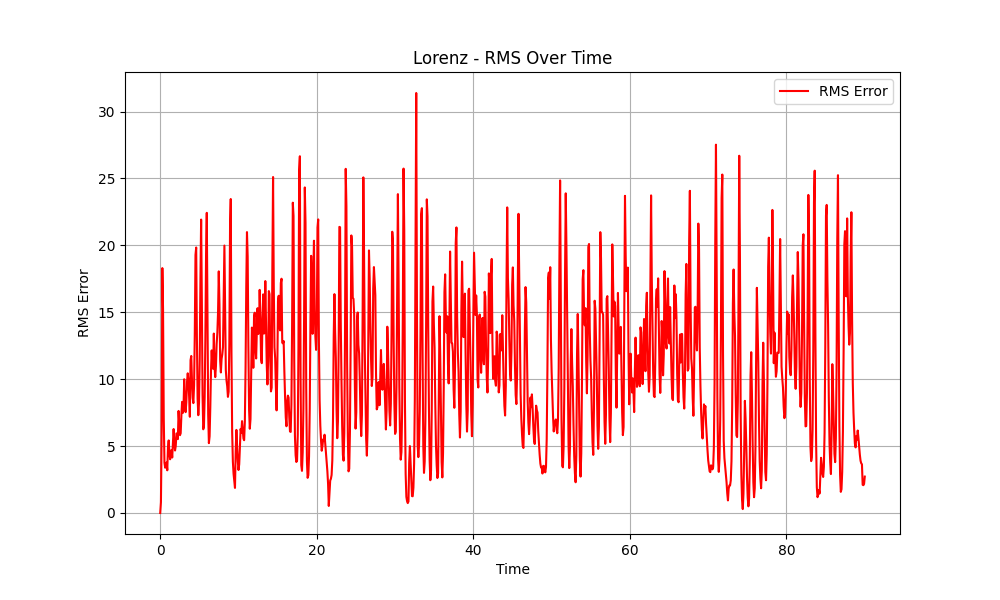
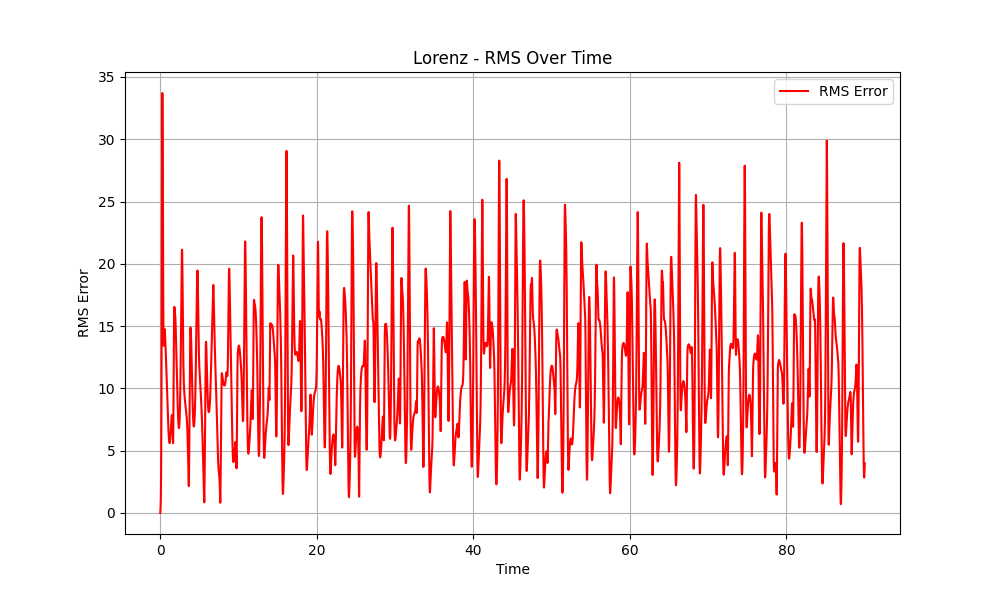
[assimilation9]

diff --git a/assimilation_old.py b/assimilation_old.py
@@ -27,13 +27,13 @@ def assimilate_data(system_func, initial_state, observed_data, t_span, bounds, s
         return system_func(t, y, *params)
 
     def objective_fun(params):
-        t_eval = np.linspace(t_span[0], t_span[1], len(observed_data))
+        t_eval = np.linspace(t_span[0], t_span[1], len(observed_data[0]))
         if solver_params is not None:
             solution = solve_ivp(model, t_span, initial_state, args=(params,),
                                  t_eval=t_eval, method=solver_params[0], min_step=solver_params[1])
         else:
             solution = solve_ivp(model, t_span, initial_state, args=(params,), t_eval=t_eval)
-        model_output = solution.y[0]
+        model_output = solution.y
 
         return rms_error(model_output, observed_data)
 
@@ -61,39 +61,39 @@ def main():
             "bounds": [(5, 20), (0.5, 5), (20, 50)],
             "gt_initial_state": [1.0, 1.0, 1.0]
         },
-        {
-            "name": "Yang",
-            "ground_truth_func": yang_system,
-            "solver_params": None,
-            "base_params": [(10, 8. / 3., 16), (9.9, 2.5, 15.9)],
-            "bounds": [(5, 20), (2, 5), (10, 20)],
-            "gt_initial_state": [1.5, 1.5, 1.5]
-        },
-        {
-            "name": "Chen",
-            "ground_truth_func": chen_system,
-            "solver_params": None,
-            "base_params": [(34.5, 2.7, 28.0), (34.55, 2.8, 29.0)],
-            "bounds": [(33.0, 38.0), (2.0, 5.5), (26.0, 31.0)],
-            "gt_initial_state": [1.0, 1.0, 1.0]
-        },
-        {
-            "name": "Lu",
-            "ground_truth_func": lu_system,
-            "solver_params": None,
-            "base_params": [(36, 3, 20), (35.5, 2.5, 19.5)],
-            "bounds": [(32.0, 39.0), (1.5, 5.5), (15.0, 24.5)],
-            "gt_initial_state": [1.0, 1.0, 1.0]
-        },
-        {
-            "name": "Distorded Lorenz System",
-            "ground_truth_func": disturbed_lorenz_system,
-            "surrogate_func": lorenz_system,
-            "base_params": [(10.0, 8. / 3., 28.0, 1.0, 5.0, 1.0), (10.0, 8. / 3., 28.0, 1.0, 5.0, 1.0)],
-            "bounds": [(5, 15), (20, 40.0), (0.5, 5), (0.5, 5), (3, 10), (0.5, 5)],
-            "gt_initial_state": [1.0, 1.0, 1.0, 1.0, 1.0, 1.0],
-            "surrogate_state_len": 3,
-        }
+        # {
+        #     "name": "Yang",
+        #     "ground_truth_func": yang_system,
+        #     "solver_params": None,
+        #     "base_params": [(10, 8. / 3., 16), (9.9, 2.5, 15.9)],
+        #     "bounds": [(5, 20), (2, 5), (10, 20)],
+        #     "gt_initial_state": [1.5, 1.5, 1.5]
+        # },
+        # {
+        #     "name": "Chen",
+        #     "ground_truth_func": chen_system,
+        #     "solver_params": None,
+        #     "base_params": [(34.5, 2.7, 28.0), (34.55, 2.8, 29.0)],
+        #     "bounds": [(33.0, 38.0), (2.0, 5.5), (26.0, 31.0)],
+        #     "gt_initial_state": [1.0, 1.0, 1.0]
+        # },
+        # {
+        #     "name": "Lu",
+        #     "ground_truth_func": lu_system,
+        #     "solver_params": None,
+        #     "base_params": [(36, 3, 20), (35.5, 2.5, 19.5)],
+        #     "bounds": [(32.0, 39.0), (1.5, 5.5), (15.0, 24.5)],
+        #     "gt_initial_state": [1.0, 1.0, 1.0]
+        # },
+        # {
+        #     "name": "Distorded Lorenz System",
+        #     "ground_truth_func": disturbed_lorenz_system,
+        #     "surrogate_func": lorenz_system,
+        #     "base_params": [(10.0, 8. / 3., 28.0, 1.0, 5.0, 1.0), (10.0, 8. / 3., 28.0, 1.0, 5.0, 1.0)],
+        #     "bounds": [(5, 15), (20, 40.0), (0.5, 5), (0.5, 5), (3, 10), (0.5, 5)],
+        #     "gt_initial_state": [1.0, 1.0, 1.0, 1.0, 1.0, 1.0],
+        #     "surrogate_state_len": 3,
+        # }
     ]
 
     sample_params = [
@@ -104,52 +104,47 @@ def main():
 
     for system in systems:
         print(f"Processing {system['name']} system")
-        for i in range(len(system["base_params"])):
-            ground_truth_func = system['ground_truth_func']
-            base_params = system["base_params"][0]
-            initial_state = system['gt_initial_state']
+        ground_truth_func = system['ground_truth_func']
+        base_params = system["base_params"][0]
+        initial_state = system['gt_initial_state']
 
-            t_span = (0, 90)
-            t_eval = np.linspace(*t_span, 1000)
-            base_solution = solve_ivp(ground_truth_func, t_span, initial_state, args=base_params, t_eval=t_eval)
+        t_span = (0, 90)
+        t_eval = np.linspace(*t_span, 10000)
+        base_solution = solve_ivp(ground_truth_func, t_span, initial_state, args=base_params, t_eval=t_eval)
 
-            fig = plot_3d_solution(base_solution, title=f"{system['name']} - 3D Phase Space")
-            save_plot(fig, system['name'], (0, 90), 0, "3D_Phase_Space")
-            for t_sample_span, sampling_points in sample_params:
-                print(f"Sampling for t_sample_span = {t_sample_span}, sampling_points = {sampling_points}")
+        fig = plot_3d_solution(base_solution, title=f"{system['name']} - 3D Phase Space")
+        save_plot(fig, system['name'], (0, 90), 0, "3D_Phase_Space")
+        for t_sample_span, sampling_points in sample_params:
+            print(f"Sampling for t_sample_span = {t_sample_span}, sampling_points = {sampling_points}")
 
-                t_sample = np.linspace(t_sample_span[0], t_sample_span[1], sampling_points)
-                sampled_data = [np.interp(t_sample, base_solution.t, base_solution.y[i]) for i in
-                                range(base_solution.y.shape[0])]
-                sampled_points = [(t_sample, sampled_data[i]) for i in range(len(sampled_data))]
+            t_sample = np.linspace(t_sample_span[0], t_sample_span[1], sampling_points)
+            sampled_data = [np.interp(t_sample, base_solution.t, base_solution.y[i]) for i in
+                            range(base_solution.y.shape[0])]
+            sampled_points = [(t_sample, sampled_data[i]) for i in range(len(sampled_data))]
 
-                # Plot sampled data
-                fig = plot_dynamic_variation(base_solution.t, base_solution.y, samples=sampled_points,
-                                       title=f"{system['name']} - Sampled Dynamics for {t_sample_span[0]}-{t_sample_span[1]}")
-                save_plot(fig, system['name'], t_sample_span, sampling_points, "Sampled_Dynamics")
-                # Fit model to sampled data
-                fitted_params = assimilate_data(ground_truth_func, initial_state, sampled_data[0], t_sample_span,
-                                                system['bounds'], system.get('solver_params'))
-                print(f"Fitted Parameters for {system['name']}: {fitted_params}")
 
-                # Predict forward and backward
+            fig = plot_dynamic_variation(base_solution.t, base_solution.y, samples=sampled_points,
+                                         title=f"{system['name']} - Sampled Dynamics for {t_sample_span[0]}-{t_sample_span[1]}")
+            save_plot(fig, system['name'], t_sample_span, sampling_points, "Sampled_Dynamics")
 
-                # to_train_func = system.get('surrogate_func', ground_truth_func)
+            fitted_params = assimilate_data(ground_truth_func, initial_state, sampled_data, t_sample_span,
+                                            system['bounds'], system.get('solver_params'))
+            print(f"Fitted Parameters for {system['name']}: {fitted_params}")
 
-                fitted_solution = solve_ivp(ground_truth_func, t_span, initial_state, args=fitted_params, t_eval=t_eval)
-                rms_values = calculate_rms_over_time(base_solution.y, fitted_solution.y)
 
-                # Plot RMS over time
-                fig = plt.figure(figsize=(10, 6))
-                plt.plot(t_eval, rms_values, label="RMS Error", color="red")
-                plt.title(f"{system['name']} - RMS Over Time")
-                plt.xlabel("Time")
-                plt.ylabel("RMS Error")
-                plt.legend()
-                plt.grid()
-                plt.show()
-                save_plot(fig, system['name'], t_sample_span, sampling_points, "RMS_Over_Time")
-                # Plot fitted model
+            fitted_solution = solve_ivp(ground_truth_func, t_span, initial_state, args=fitted_params, t_eval=t_eval)
+            rms_values = calculate_rms_over_time(base_solution.y, fitted_solution.y)
+
+            # Plot RMS over time
+            fig = plt.figure(figsize=(10, 6))
+            plt.plot(t_eval, rms_values, label="RMS Error", color="red")
+            plt.title(f"{system['name']} - RMS Over Time")
+            plt.xlabel("Time")
+            plt.ylabel("RMS Error")
+            plt.legend()
+            plt.grid()
+            plt.show()
+            save_plot(fig, system['name'], t_sample_span, sampling_points, "RMS_Over_Time")
 
 
 if __name__ == "__main__":

diff --git a/assilmilation.py b/assilmilation.py
@@ -30,13 +30,13 @@ def assimilate_data(system_func, initial_state, observed_data, t_span, bounds, s
         return system_func(t, y, *params)
 
     def objective_fun(params):
-        t_eval = np.linspace(t_span[0], t_span[1], len(observed_data))
+        t_eval = np.linspace(t_span[0], t_span[1], len(observed_data[0]))
         if solver_params is not None:
             solution = solve_ivp(model, t_span, initial_state, args=(params,),
                                  t_eval=t_eval, method=solver_params[0], min_step=solver_params[1])
         else:
             solution = solve_ivp(model, t_span, initial_state, args=(params,), t_eval=t_eval)
-        model_output = solution.y[0]
+        model_output = solution.y
 
         return rms_error(model_output, observed_data)
 
@@ -56,14 +56,14 @@ def assimilate_data(system_func, initial_state, observed_data, t_span, bounds, s
 
 def main():
     systems = [
-        # {
-        #     "name": "Lorenz",
-        #     "ground_truth_func": lorenz_system,
-        #     "solver_params": None,
-        #     "base_params": [(10.0, 8.0 / 3.0, 28.0), (9.9, 2.5, 27.5)],
-        #     "bounds": [(5, 20), (0.5, 5), (20, 50)],
-        #     "gt_initial_state": [1.0, 1.0, 1.0]
-        # },
+        {
+            "name": "Lorenz",
+            "ground_truth_func": lorenz_system,
+            "solver_params": None,
+            "base_params": [(10.0, 8.0 / 3.0, 28.0), (9.9, 2.5, 27.5)],
+            "bounds": [(5, 20), (0.5, 5), (20, 50)],
+            "gt_initial_state": [1.0, 1.0, 1.0]
+        },
         # {
         #     "name": "Yang",
         #     "ground_truth_func": yang_system,
@@ -88,15 +88,15 @@ def main():
         #     "bounds": [(32.0, 39.0), (1.5, 5.5), (15.0, 24.5)],
         #     "gt_initial_state": [1.0, 1.0, 1.0]
         # },
-        {
-            "name": "Distorded Lorenz System",
-            "ground_truth_func": disturbed_lorenz_system,
-            "surrogate_func": lorenz_system,
-            "base_params": [(10.0, 8. / 3., 28.0, 1.0, 5.0, 1.0), (10.0, 8. / 3., 28.0, 1.0, 5.0, 1.0)],
-            "bounds": [(5, 15), (20, 40.0), (0.5, 5), (0.5, 5), (3, 10), (0.5, 5)],
-            "gt_initial_state": [1.0, 1.0, 1.0, 1.0, 1.0, 1.0],
-            "surrogate_state_len": 3,
-        }
+        # {
+        #     "name": "Distorded Lorenz System",
+        #     "ground_truth_func": disturbed_lorenz_system,
+        #     "surrogate_func": lorenz_system,
+        #     "base_params": [(10.0, 8. / 3., 28.0, 1.0, 5.0, 1.0), (10.0, 8. / 3., 28.0, 1.0, 5.0, 1.0)],
+        #     "bounds": [(5, 15), (20, 40.0), (0.5, 5), (0.5, 5), (3, 10), (0.5, 5)],
+        #     "gt_initial_state": [1.0, 1.0, 1.0, 1.0, 1.0, 1.0],
+        #     "surrogate_state_len": 3,
+        # }
     ]
 
     sample_params = [
@@ -107,31 +107,36 @@ def main():
 
     for system in systems:
         print(f"Processing {system['name']} system")
-        for i in range(len(system["base_params"])):
-            ground_truth_func = system['ground_truth_func']
-            base_params = system["base_params"][0]
-            initial_state = system['gt_initial_state']
 
-            t_span = (0, 90)
-            t_eval = np.linspace(*t_span, 1000)
-            base_solution = solve_ivp(ground_truth_func, t_span, initial_state, args=base_params, t_eval=t_eval)
+        ground_truth_func = system['ground_truth_func']
+        base_params = system["base_params"][0]
+        initial_state = system['gt_initial_state']
 
-            fig = plot_3d_solution(base_solution, title=f"{system['name']} - 3D Phase Space")
-            save_plot(fig, "Surrogated_"+system['name'], (0, 90), 0, "3D_Phase_Space")
+        t_span = (0, 90)
+        t_eval = np.linspace(*t_span, 10000)
+        base_solution = solve_ivp(ground_truth_func, t_span, initial_state, args=base_params, t_eval=t_eval)
+
+        fig = plot_3d_solution(base_solution, title=f"{system['name']} - 3D Phase Space")
+        save_plot(fig, "Surrogated_" + system['name'], (0, 90), 0, "3D_Phase_Space")
+        for std_dev in [0.5, 2, 5]:
             for t_sample_span, sampling_points in sample_params:
                 print(f"Sampling for t_sample_span = {t_sample_span}, sampling_points = {sampling_points}")
 
                 t_sample = np.linspace(t_sample_span[0], t_sample_span[1], sampling_points)
                 sampled_data = [np.interp(t_sample, base_solution.t, base_solution.y[i]) for i in
                                 range(base_solution.y.shape[0])]
-                sampled_points = [(t_sample, sampled_data[i]) for i in range(len(sampled_data))]
+                mean = 0
+                noisy_sampled_data = [data + np.random.normal(mean, std_dev, size=len(data))
+                                      for data in sampled_data]
+                sampled_points = [(t_sample, noisy_sampled_data[i]) for i in range(len(noisy_sampled_data))]
 
                 # Plot sampled data
                 fig = plot_dynamic_variation(base_solution.t, base_solution.y, samples=sampled_points,
-                                       title=f"{system['name']} - Sampled Dynamics for {t_sample_span[0]}-{t_sample_span[1]}")
-                save_plot(fig, "Surrogated_"+system['name'], t_sample_span, sampling_points, "Sampled_Dynamics")
+                                             title=f"{system['name']} - Sampled Dynamics for {t_sample_span[0]}-{t_sample_span[1]}")
+                save_plot(fig, "Surrogated_" + system['name'], t_sample_span, sampling_points, "Sampled_Dynamics")
                 # Fit model to sampled data
-                fitted_params = assimilate_data(ground_truth_func, initial_state, sampled_data[0], t_sample_span,
+
+                fitted_params = assimilate_data(ground_truth_func, initial_state, sampled_data, t_sample_span,
                                                 system['bounds'], system.get('solver_params'))
                 print(f"Fitted Parameters for {system['name']}: {fitted_params}")
 
@@ -140,20 +145,18 @@ def main():
                 fitted_solution = solve_ivp(ground_truth_func, t_span, initial_state, args=fitted_params, t_eval=t_eval)
 
                 to_train_func = system.get('surrogate_func', ground_truth_func)
-                surrogated_params = assimilate_data(to_train_func, initial_state[:3], sampled_data[0], t_sample_span,
-                                                system['bounds'][:3], system.get('solver_params'))
+                surrogated_params = assimilate_data(to_train_func, initial_state[:3], sampled_data[:3], t_sample_span,
+                                                    system['bounds'][:3], system.get('solver_params'))
 
-                surrogated_solution = solve_ivp(to_train_func, t_span, initial_state[:3], args=surrogated_params, t_eval=t_eval)
+                surrogated_solution = solve_ivp(to_train_func, t_span, initial_state[:3], args=surrogated_params,
+                                                t_eval=t_eval)
                 base_rms_values = calculate_rms_over_time(base_solution.y, surrogated_solution.y)
                 fitted_rms_values = calculate_rms_over_time(fitted_solution.y, surrogated_solution.y)
 
                 fig = plot_rms_over_time(t_eval, base_rms_values, title=f"{system['name']} - Base RMS Over Time")
-                save_plot(fig, "Surrogated_"+system['name'], t_sample_span, sampling_points, "RMS_Over_Time")
+                save_plot(fig, "Surrogated_" + system['name'], t_sample_span, sampling_points, "RMS_Over_Time")
                 fig = plot_rms_over_time(t_eval, fitted_rms_values, title=f"{system['name']} - Fitted RMS Over Time")
-                save_plot(fig,"Surrogated_"+ system['name'], t_sample_span, sampling_points, "RMS_Over_Time2")
-
-                fig = plot_3d_solution(surrogated_solution, title=f"{system['name']} - Surrogated 3D Phase Space", colors="orange")
-                save_plot(fig, "Surrogated_"+system['name'], t_sample_span, sampling_points, "Surrogated_3D_Phase_Space")
+                save_plot(fig, "Surrogated_" + system['name'], t_sample_span, sampling_points, "RMS_Over_Time2")
 
 
 if __name__ == "__main__":

diff --git a/plotting.py b/plotting.py
@@ -3,13 +3,15 @@ import os
 import matplotlib.pyplot as plt
 
 
-def plot_dynamic_variation(time, variables, samples=None, title="Dynamic Variation", xlabel="Time", ylabel="Values"):
+def plot_dynamic_variation(time, variables, samples=None, title="Dynamic Variation", xlabel="Time", ylabel="Values", t_span = (0, 90)):
     fig = plt.figure(figsize=(10, 6))
     for i, var in enumerate(variables):
         plt.plot(time, var, label=f"x{i+1}")
+        break
     if samples is not None:
         for i, sampled_points in enumerate(samples):
             plt.scatter(sampled_points[0], sampled_points[1], label=f"Sampled x{i+1}", marker='o')
+            break
     plt.title(title)
     plt.xlabel(xlabel)
     plt.ylabel(ylabel)
